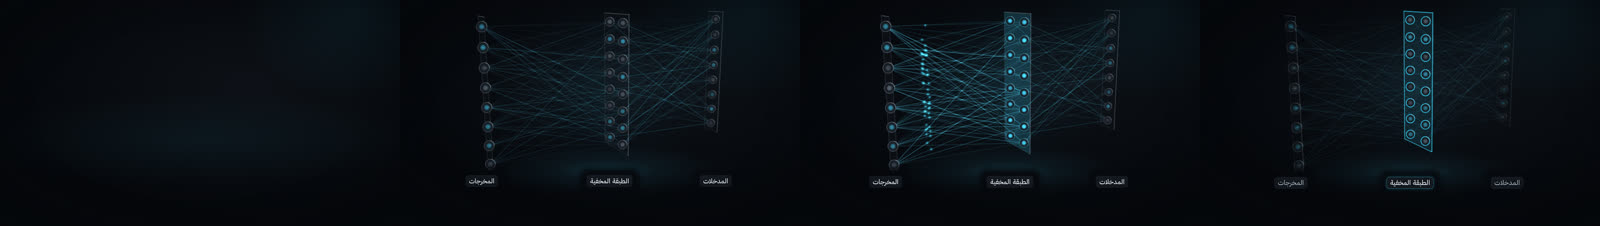
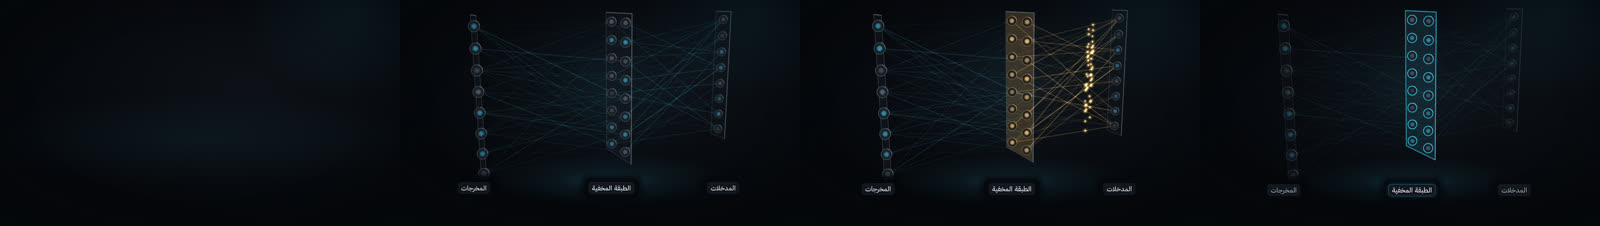
P7 space3d: NeuralNet3D critic carry-forwards 1-5 (p50 mid-backprop, brighter panes, weak links fainter, wave head brighter, labels closer; snap PASS det 0, baselines pending-critic; perf lite 0.114 / standard 0.186 / hero 0.199 box s/frame under load; Arabic QA pass)
Claude-Session: https://claude.ai/code/session_01VrU9wxU8GmuhdhWAAHnnQ8

diff --git a/studio/src/components/NeuralNet3D/NeuralNet3D.tsx b/studio/src/components/NeuralNet3D/NeuralNet3D.tsx
@@ -62,7 +62,7 @@ const hullOf = (net: Net): V3[] =>
     const [y0, y1, z0, z1] = [Math.min(...ys) - 0.2, Math.max(...ys) + 0.2, Math.min(...zs) - 0.2, Math.max(...zs) + 0.2];
     return [y0, y1].flatMap((y) => [z0, z1].map((z): V3 => [xs, y, z]));
   });
-const LABEL_BAND = 0.2; // share of the slot height kept for the layer labels
+const LABEL_BAND = 0.15; // share of the slot height kept for the layer labels
 
 const camOf = (ctx: LayerCtx, hull: V3[]): Cam3 =>
   fitCam(
@@ -130,7 +130,7 @@ export const NeuralNet3DView: React.FC<DcProps<Props>> = ({props, ctx}) => {
   const size = fits.length ? Math.min(...fits.map((f) => f.size)) : BASE;
   const overflow = fits.some((f) => f.overflow);
   useOverflow(ctx.id, overflow, {pitch: Math.round(pitch), labels});
-  const baseY = Math.max(...bottoms) + 28;
+  const baseY = Math.max(...bottoms) + 16;
   const chips = m
     ? labels.map((t, i) => {
         const w = chipW(m.w[i], BASE, size);
@@ -178,7 +178,7 @@ export const NeuralNet3DView: React.FC<DcProps<Props>> = ({props, ctx}) => {
       g.beginPath();
       q.forEach((c, i) => (i ? g.lineTo(c.x, c.y) : g.moveTo(c.x, c.y)));
       g.closePath();
-      g.fillStyle = rgba(C.panel, 0.34 * e * fa);
+      g.fillStyle = rgba(C.panel, 0.52 * e * fa);
       g.fill();
       if (heat > 0 || isHl) {
         g.globalCompositeOperation = 'lighter';
@@ -187,7 +187,7 @@ export const NeuralNet3DView: React.FC<DcProps<Props>> = ({props, ctx}) => {
         g.globalCompositeOperation = 'source-over';
       }
       g.lineWidth = 1.5;
-      g.strokeStyle = rgba(C.ink3, 0.5 * e * fa);
+      g.strokeStyle = rgba(C.ink3, 0.75 * e * fa);
       g.stroke();
       // rim light (04 section 1.2): the top edge and the right-most vertical edge of the pane catch the key light
       const edges = q.map((c, i) => [c, q[(i + 1) % 4]] as const);
@@ -195,7 +195,7 @@ export const NeuralNet3DView: React.FC<DcProps<Props>> = ({props, ctx}) => {
       const right = edges.filter((c) => c !== top).reduce((a, c) => ((a[0].x + a[1].x) / 2 > (c[0].x + c[1].x) / 2 ? a : c));
       g.lineWidth = 2.5;
       g.lineCap = 'round';
-      g.strokeStyle = rgba(isHl ? C.signal : C.ink2, (isHl ? 0.9 * hlK + 0.2 : 0.55) * e * fa);
+      g.strokeStyle = rgba(isHl ? C.signal : C.ink2, (isHl ? 0.9 * hlK + 0.2 : 0.85) * e * fa);
       for (const ed of [top, right]) {
         g.beginPath();
         g.moveTo(ed[0].x, ed[0].y);
@@ -226,8 +226,8 @@ export const NeuralNet3DView: React.FC<DcProps<Props>> = ({props, ctx}) => {
         const b = P[gi + 1][ln.b];
         if (!a.ok || !b.ok) continue;
         g.globalAlpha = 1;
-        g.strokeStyle = rgba(hot ? mix(C.ink3, hot, 0.7) : mix(C.ink3, C.signal, ln.w * 0.85), (0.07 + 0.3 * ln.w * ln.w) * e * fa * (hot ? 2 : 1) * boost);
-        g.lineWidth = 0.8 + 1.8 * ln.w * ln.w;
+        g.strokeStyle = rgba(hot ? mix(C.ink3, hot, 0.7) : mix(C.ink3, C.signal, ln.w * 0.85), (0.025 + 0.3 * ln.w * ln.w * ln.w) * e * fa * (hot ? (ln.w > 0.5 ? 2.4 : 1.4) : 1) * boost);
+        g.lineWidth = 0.8 + 1.8 * ln.w * ln.w * ln.w;
         g.beginPath();
         g.moveTo(a.x, a.y);
         g.lineTo(b.x, b.y);
@@ -244,7 +244,8 @@ export const NeuralNet3DView: React.FC<DcProps<Props>> = ({props, ctx}) => {
           const u = s.back ? 1 - s.u : s.u;
           const x = lerp(a.x, b.x, u);
           const y = lerp(a.y, b.y, u);
-          blit(g, sprite(s.c, 'core'), x, y, 7 + 5 * ln.w, 0.9 * e);
+          blit(g, sprite(C.ink, 'core'), x, y, 5 + 3 * ln.w, 0.95 * e);
+          blit(g, sprite(s.c, 'core'), x, y, 9 + 6 * ln.w, 0.95 * e);
           if (glow) blit(g, sprite(s.c, 'glow'), x, y, 26, 0.35 * e * glow);
         }
       }
@@ -278,7 +279,7 @@ export const NeuralNet3DView: React.FC<DcProps<Props>> = ({props, ctx}) => {
       g.arc(p.x, p.y, r, -1.35, -0.15); // the rim on the upper-right
       g.stroke();
       g.globalCompositeOperation = 'lighter';
-      blit(g, sprite(heat > 0 ? c : av > 0.5 ? C.signal : C.ink2, 'dot'), p.x, p.y, r * 0.75, e * ((0.2 + 0.5 * av) * fa + 0.75 * heat));
+      blit(g, sprite(heat > 0 ? c : av > 0.5 ? C.signal : C.ink2, 'dot'), p.x, p.y, r * 0.75, e * ((0.2 + 0.5 * av) * fa + 0.5 * heat));
       if (glow && heat <= 0 && av > 0.7) blit(g, sprite(C.signal, 'glow'), p.x, p.y, r * 2.6, e * fa * glow * 0.35 * av);
       if (glow && (heat > 0 || isHl)) blit(g, sprite(heat > 0 ? c : C.signal, 'glow'), p.x, p.y, r * 4, e * glow * Math.max(heat, isHl ? 0.5 * hlK : 0));
     }

diff --git a/studio/src/demos/space3d.tsx b/studio/src/demos/space3d.tsx
@@ -184,10 +184,11 @@ const demos: DemoModule = {
       },
     },
     {
-      // CH-32 (d:6.17:1): the feed-forward block d_model 8 -> d_ff 16 -> 8. forward on the first beat, gradients back on the second.
+      // CH-32 (d:6.17:1): the feed-forward block d_model 8 -> d_ff 16 -> 8. the net stands on the first word, the forward pass runs on the second, gradients flow back on the third
+      // (p50 lands mid-backprop), and the hidden layer is ringed on the fourth.
       name: 'NeuralNet3D',
       frames: 144,
-      words: words('NeuralNet3D', [6, 16], [62, 74], [100, 112], [124, 134]),
+      words: words('NeuralNet3D', [6, 16], [30, 42], [62, 74], [100, 112]),
       shot: {
         fx_tier: 'standard',
         camera: {move: 'push_in', intensity: 0.2},

diff --git a/docs/p7/catalog_status/space3d.md b/docs/p7/catalog_status/space3d.md
@@ -3,4 +3,4 @@
 | Component | Status | Notes |
 |---|---|---|
 | VectorGalaxy | implemented | Embedding galaxy (CH-33, 04 §6 Embeddings/RAG): 900 seeded points in 4 labelled clusters (nebula sprites, halos, depth fade), ring markers + leaders to whole-word chips (text-safe knockouts), `probe` query lands with a glow and 3 nearest-neighbour beams (`highlightNeighbors`), `zoomCluster` camera dolly; chips declutter around the probe disc. Round-2 critic approved 7.6; this run applies carry-forward items 2 and 3 (ring r 12 / alpha 0.85, dimmed chip alpha floor 0.7) so baselines are pending-critic again. Open: roadmap leader still runs behind the keyword chip end (carry-forward 1); standard/hero stills not yet evidenced. Perf box s/frame at 3 slots: lite 0.070, standard 0.121, hero 0.116 (budgets 0.201 / 0.201 / 1.038); canvas 2D, hero equals standard plus bloom. Arabic QA pass on all 5 demo strings. |
-| NeuralNet3D | implemented | Layers of neurons (04 §6 Neural networks; CH-32 feed-forward block d_model 8 -> d_ff 16 -> 8, d:6.17:1): each layer is a rim-lit glass pane in depth along the RTL flow (input on the right), wider layers become a y-z grid so the set reads as volume; seeded weight magnitudes drive link brightness and width (never a printed number), seeded resting activation tints neuron cores. `forward` sends a signal wave gap by gap (7 f per gap), `backprop` returns a warn wave, `highlightLayer` rings one layer and dims the rest; labels sit on one baseline (AT-4, auto-fit, text-safe knockout). Gaps denser than 160 links show a seeded subset of 160 (legibility and cost). Canvas 2D (no WebGL): lite flat, standard halos, hero adds bloom sprites. Baselines pending-critic. Perf box s/frame at 3 slots: lite 0.070, standard 0.111, hero 0.106 (budgets 0.201 / 0.201 / 1.038). Arabic QA pass (demo file, 31 strings). |
+| NeuralNet3D | implemented | Layers of neurons (04 §6 Neural networks; CH-32 feed-forward block d_model 8 -> d_ff 16 -> 8, d:6.17:1): each layer is a rim-lit glass pane in depth along the RTL flow (input on the right), wider layers become a y-z grid so the set reads as volume; seeded weight magnitudes drive link brightness and width (never a printed number), seeded resting activation tints neuron cores. `forward` sends a signal wave gap by gap (7 f per gap), `backprop` returns a warn wave, `highlightLayer` rings one layer and dims the rest; labels sit on one baseline (AT-4, auto-fit, text-safe knockout). Gaps denser than 160 links show a seeded subset of 160. Canvas 2D (no WebGL): lite flat, standard halos, hero adds bloom sprites. Critic round 1 approved 7.2; this run applies carry-forwards 1-5: demo re-timed so p50 lands mid-backprop (warn wave evidenced), panes and rims about 1.5x, weak links fainter (alpha ~ w^3) so strong weights stand out, wave head is a white-cored spark brighter than the lit cores, labels 12 px closer to the layers; standard/hero wave strip in reports/p7/evidence/space3d/NeuralNet3D_waves.jpg (item 6). Lesson: stroke widths below 0.8 px made the canvas raster non-deterministic (det 1308 px), so the floor stays 0.8. Baselines pending-critic again. Perf box s/frame at 3 slots, measured under loadavg 8-10 on 4 cores with 2 other jobs (so inflated; the quiet-machine run was 0.070 / 0.111 / 0.106 before this change): lite 0.114, standard 0.186, hero 0.199 (budgets 0.201 / 0.201 / 1.038), within budget. Arabic QA pass (31 strings; label strings unchanged, re-run 3/3 OCR min 0.963). |
